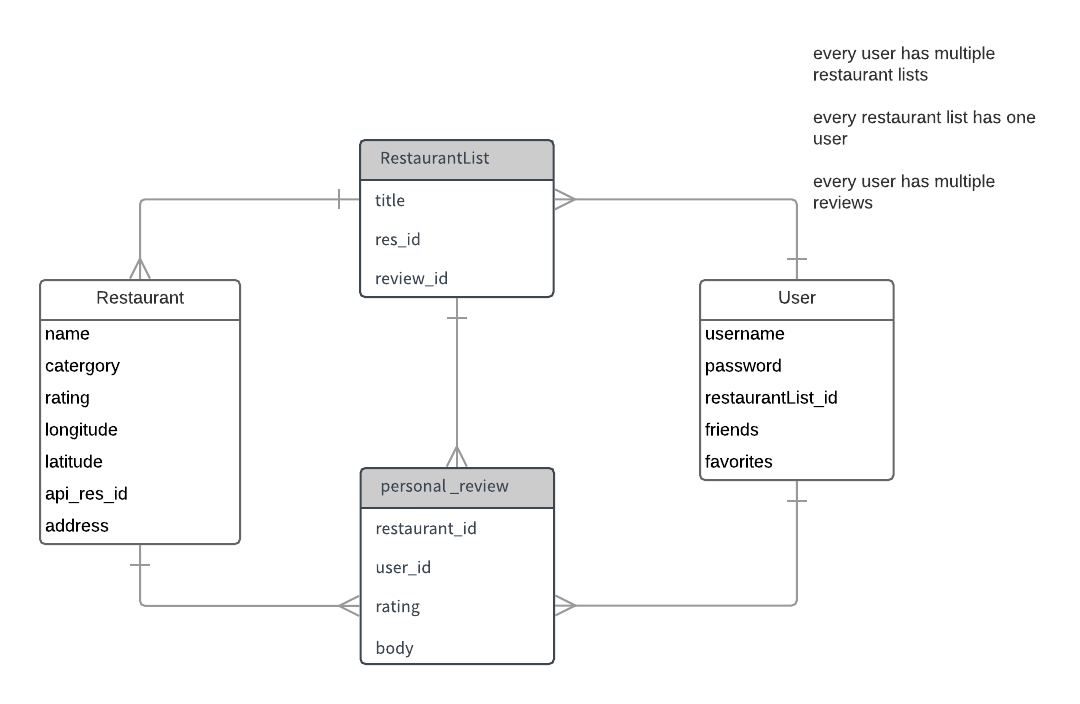
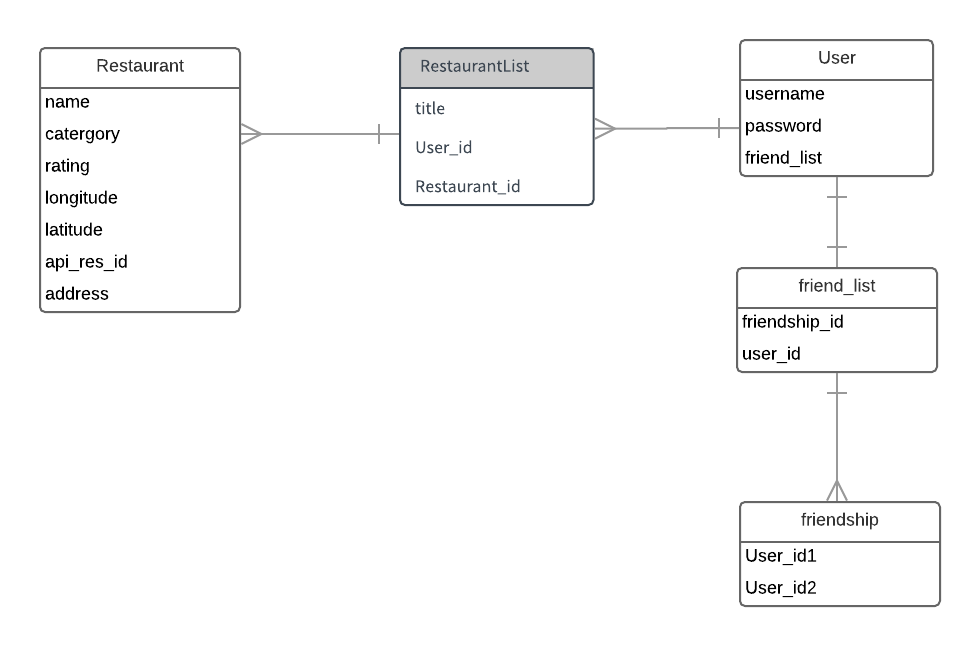
updated model

diff --git a/README.md b/README.md
@@ -3,13 +3,14 @@ By: Jared Kranzler, Jay Escala, Stephanie Obeytek
 
 #MVP
 * User can login
-* User can see restaurants near by on Map
+* User can see restaurants near by on map
 * User can click a button and be reffered to one specific restaurant around them to go to.
-* User can type search restaurants by catergory
-* User can make favorite list of restaurants
+* User can search restaurants by location, type, and name
+* User can make favorite list of restaurants and give title to list
 * User can add restaurants to list and remove
-* User can add personal reviews for individual restaurants on list and rate them.
-* User can see restaurants in common with friends and recieve restaurant suggestion based on commonality
+* User can see restaurants in common with friends and receive restaurant suggestion based on commonality
+* User can see list of friends
+* User can add friends to friends list
 
 #ERD Diagram
 ![alt text](https://github.com/jaredkranzler/Project4_React-Django_FoodApp/blob/master/Images/Food'inCommon.png)
